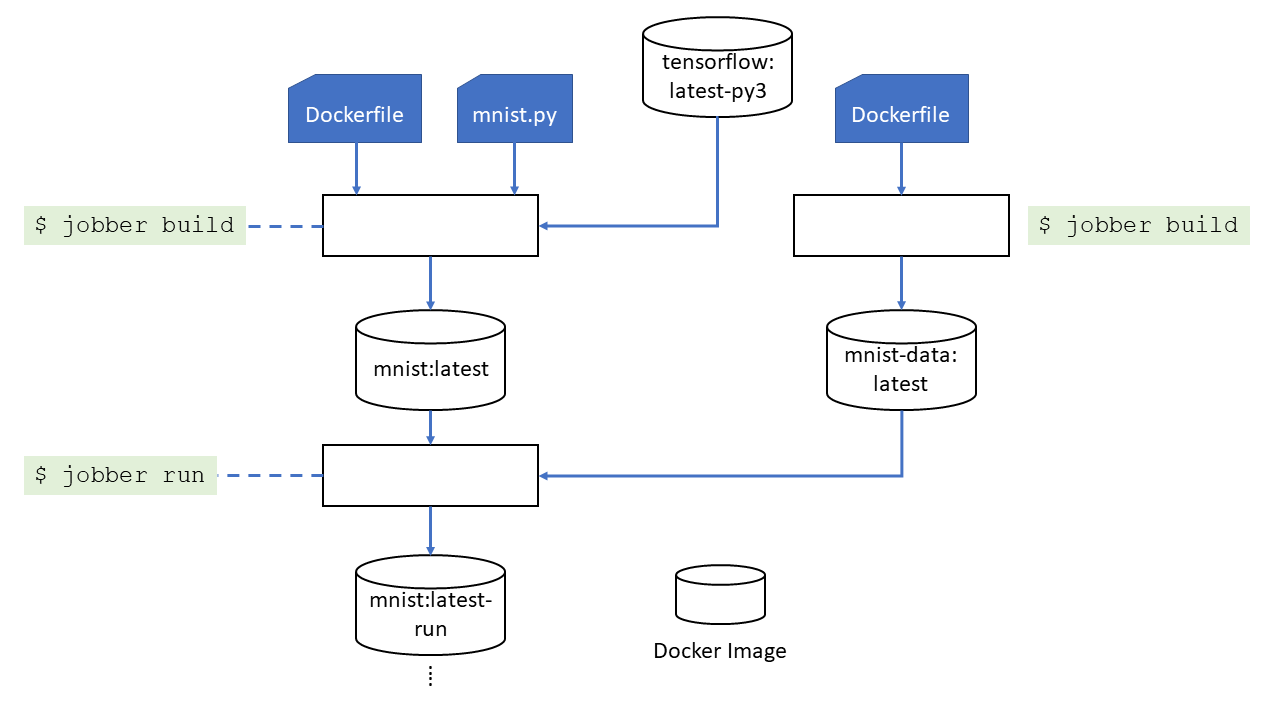
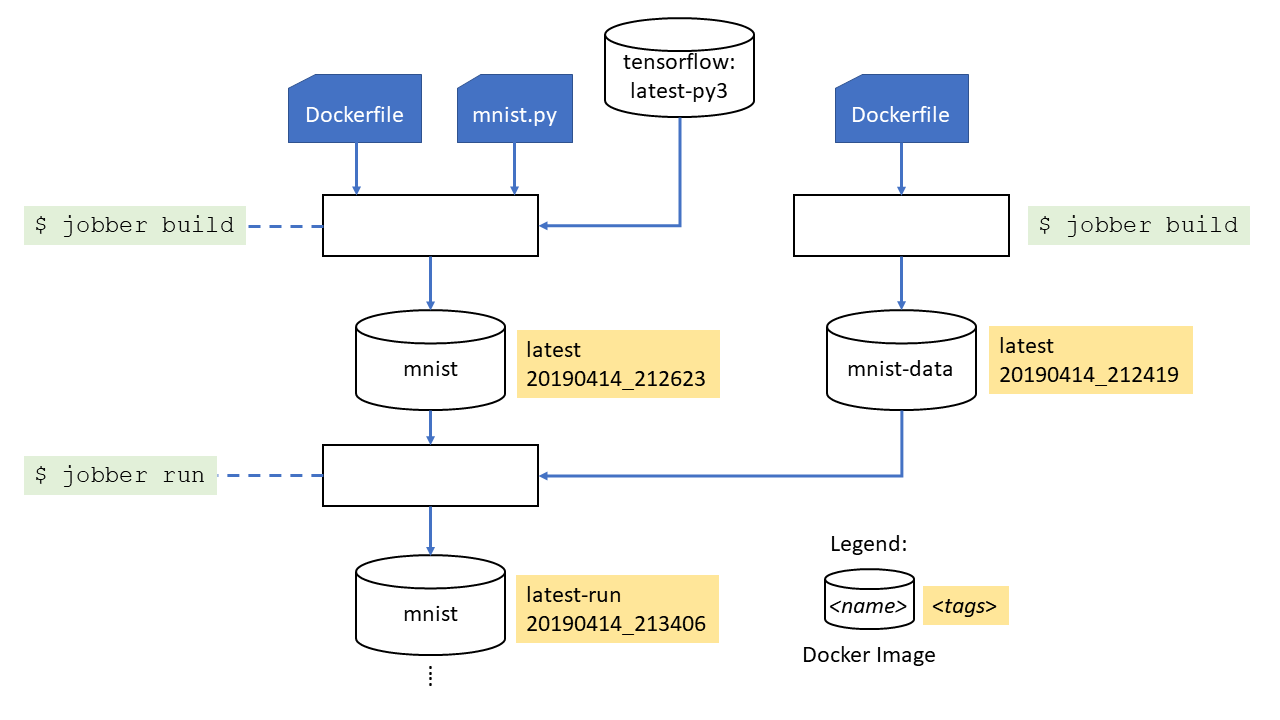
readme

diff --git a/README.md b/README.md
@@ -2,7 +2,7 @@ Docker Jobber
 ==============================
 > *Twas buildy in the softly woves did gen and gitter in the web...*
 
-Docker Jobber (`jobber`) is a command line interface (CLI) application for managing machine learning workflows using Docker.
+Docker Jobber (`jobber`) is a light-weight command line interface (CLI) application for managing machine learning workflows using Docker.
 
 ![workflow](./docs/images/workflow.png)
 
@@ -10,7 +10,9 @@ Docker Jobber (`jobber`) is a command line interface (CLI) application for manag
 * [Introduction](#Introduction)
 * [Installation](#Installation)
 * [Usage](#Usage)
-* [Command Line Arguments](#CommandLineArguments)
+    * [Command Line Arguments](#CommandLineArguments)
+    * [build command](#BuildCommand)
+    * [run command](#RunCommand)
 * [Configuration Files](#ConfigurationFiles)
     * [Directory Search](#ConfigurationDirectorySearch)
     * [Credentials](#ConfigurationCredentials)
@@ -62,10 +64,10 @@ After the job completes (either successfully or unsuccessfully), a snapshot of t
 A log file of the job's execution is also written to the image.
 The log file can be useful when trying to determine what went wrong with a job (especially for remote jobs).
 Additional meta data in the form of Docker LABELS are written linking the result image to the code and data images from which it was created.
-This provides the complete provenance for each job enabling reproducible results.
+This provides the complete provenance for each job, enabling reproducible results.
 
 # Installation
-You'll need [Docker](www.docker.com/get-started) of course, then install the `jobber` command using pip (Docker Jobber requires Python3):
+You'll need [Docker](www.docker.com/get-started) of course, then install the `jobber` command using pip (Docker Jobber requires [Python3](https://www.python.org/)):
 
 ```
 pip install docker-jobber
@@ -78,8 +80,8 @@ Using Docker Jobber is very similar to just using Docker by itself:
 * You build Docker images with the build command (e.g. `jobber build`)
 * You execute jobs with the run command (e.g. `jobber run`)
   
-> Note: `docker run` starts a container that will continue to exist on the Docker host even after the container exits, 
-`jobber run` instead snapshots the file system and then deletes the container at exit. 
+> Note: `docker run` by default starts a container that will continue to exist on the Docker host even after the container exits; 
+`jobber run`, instead, snapshots the file system and then deletes the container at exit. 
 The file system snapshot is saved as the *result image* for the run.
 The result image may be mounted as an input volume during a succeeding run.
 Arbitrarily complex data dependency chains may be built up in this way.
@@ -97,14 +99,14 @@ jobber [GLOBAL-OPTIONS] [build|run] [COMMAND-OPTIONS] [ARG]
 |--version || Print version and exit
 |-v, --verbose || Print extra information during execution of the command |
 |-H, --host *host* || Docker host to connect to |
-|-r, --reg *registry* || Default registry specification. Images are automatically pushed. |
-|-c, --config *config* |Y| Apply a named config (see the [Configuration](#ConfigurationFiles) section).
+|-r, --reg *registry/namespace* || Default registry with optional namespace path|
+|-c, --config *config* |Y| Apply a named config (see the [Configuration](#ConfigurationFiles) section)
 
 The 'default' configuration from the config file (if found) is used if none are specified on the command line.
 
-Images without a repository path (i.e. registry url and/or namespace spec.) are automatically pulled from or pushed to the default registry.
+Images without a registry url and/or namespace spec. (e.g. just an image name and tag) are automatically pulled from or pushed to the default registry/namespace (e.g. docker.io/myproject).
 
-#### Build Command
+#### <a name="BuildCommand"></a> Build Command
 ```
 jobber build [OPTIONS]
 ```
@@ -117,14 +119,15 @@ jobber build [OPTIONS]
 Build a Docker image from a Dockerfile.
 The current directory name will be used as the image name if no tags are specified.
 Tags consist of an *image-name* optionally followed by a colon (:) and a *tag-name*.
-`jobber` will add two default tags to the image name if a tag name isn't specified: 'latest', and a UTC timestamp with format 'YYYYMMDD_HHMMSS'. Meta-data in the form of Docker LABELS are also written to the image:
+`jobber` will add two default tags to the image name if a tag name isn't specified: 'latest', and a UTC timestamp with format 'YYYYMMDD_HHMMSS'. 
+Meta-data in the form of Docker LABELS are also written to the image:
 
 | label | description |
 |--|--|
 |jobber.version| The version of Docker Jobber that created the image |
 |jobber.build-tags| List of tags set for the image |
 
-#### Run Command
+#### <a name="RunCommand"></a> Run Command
 ```
 jobber run [OPTIONS] [IMAGE[:TAG]] [CMD] [ARGS...]
 ```
@@ -148,7 +151,8 @@ Meta-data in the form of Docker LABELS are also written to the result image as l
 |jobber.version| The version of Docker Jobber that created the image |
 |jobber.parent| The sha256 id of the image that was executed |
 |jobber.out| The default *src* directory for when the image is used as an input (see the `-o` option below)
-|jobber.inputs| Comma separated list of input image vol-specs. A vol-spec is a string with format: "*image-id*:*src-directory*:ro".
+|jobber.inputs| Comma separated list of input image vol-specs. 
+A vol-spec is a string with format: "*image-id*:*src-directory*:ro".
 
 The out (`-o`) option specifies the default *src* directory when the result image is used as an input image on a later run (default is `/data`).
 
@@ -168,7 +172,7 @@ A Docker volume is created if one doesn't already exist for a given input image.
 This may lead to excessive disk usage if many variants of input images are built.
 Use the various `docker volume` commands to view and clean up unused volumes.
 
-#### Example:
+#### <a name="RunExample"></a>Example:
 ```
 jobber run -i mnist-data,src=/data,dest=/digits -o /digit-images mnist
 ```
@@ -178,7 +182,7 @@ The result image (`mnist:latest-run`) created after the run specifies `/digit-im
 
 
 # <a name="ConfigurationFiles"></a> Configuration Files
-Docker Jobber is configured using a flexible architecture based on yml files with the name `jobber-config.yml` (see [example](#example) below).
+Docker Jobber is configured using a flexible architecture based on yml files with the name `jobber-config.yml` (see [example](#BigExample) below).
 
 ## <a name="ConfigurationSettings"></a> Settings
 Settings from configuration files define default values for unspecified command line options and internal settings.
@@ -187,8 +191,8 @@ Settings from configuration files define default values for unspecified command 
 |--|--|--|
 |verbose| [True or False] | Sets the `-v` flag
 |host| *host URL*| Docker host to connect to 
-|default-registry| *registry URL*| Default registry
-|credentials| *credential specs.* | Login credentials (see [below](#Credentials))
+|default-registry| *registry/namespace*| Default registry with optional namespace path (e.g. docker.io/myproject)
+|credentials| *credential specs.* | Login credentials (see [below](#ConfigurationCredentials))
 |runtime|[runc \| nvidia] | Docker runtime environment
 |inputs| list of *in-spec*| Input data images (mounted read-only)
 |out| *src-dir* | Default src data directory
@@ -225,7 +229,7 @@ Docker login requires a user name and password.
 | password | password (stored in the clear)
 | password-file| The name of a file containing the password
 
-#### Example:
+#### <a name="YMLExample"></a> Example:
 ```YML
 credentials:
   - registry: "localhost:5000"
@@ -249,7 +253,7 @@ A named configuration may be defined in terms of other named configurations.
 Encountering a list of configuration names as as part of a definition activates those configurations as if they had been provided on the command line.
 This results in a surprisingly flexible and easy to use system making it simple to switch between different development and runtime tasks.
 
-#### Example:
+#### <a name="BigExample"></a> Example:
 
 The following is representative of a complex real-world software project incorporating machine learning.
 
@@ -294,7 +298,7 @@ configs:
 
 You make use of [Tensorboard](https://github.com/tensorflow/tensorboard) to track the learning progress during training (the `tensorboard` configuration exposes port 6006).
 
-The `develop` configuration is intended for use while you are writing code.
+The `develop` configuration is intended for use while you are working on code.
 It disables creation of result images (no need to clutter the registry with hundreds of failed runs), and overrides the Docker CMD to open a bash prompt.
 The intent is to map your source code from the host machine into the Docker container so you may use an external editor without having to repeatedly rebuild code images (an example of how you would do that from a subdirectory is shown in the commented line).
 You can modify, debug, and execute code multiple times from inside the container.
